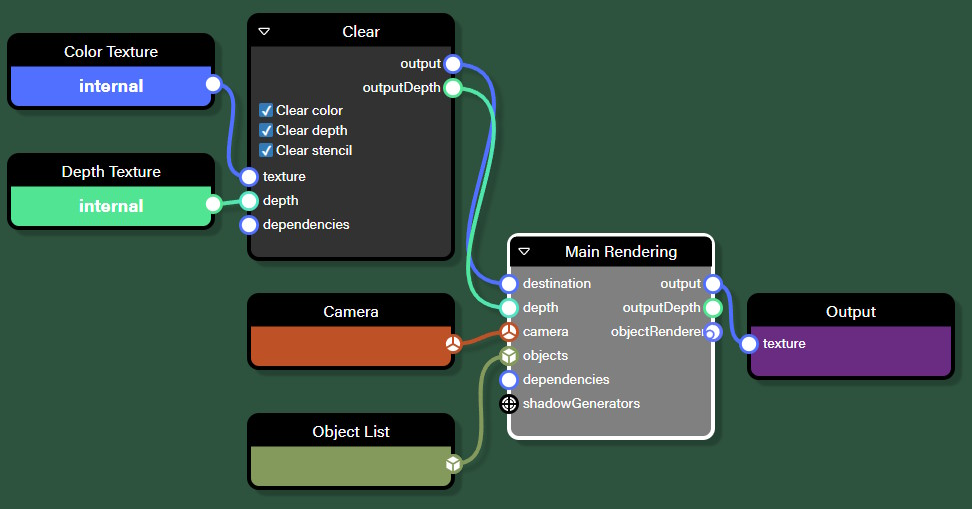
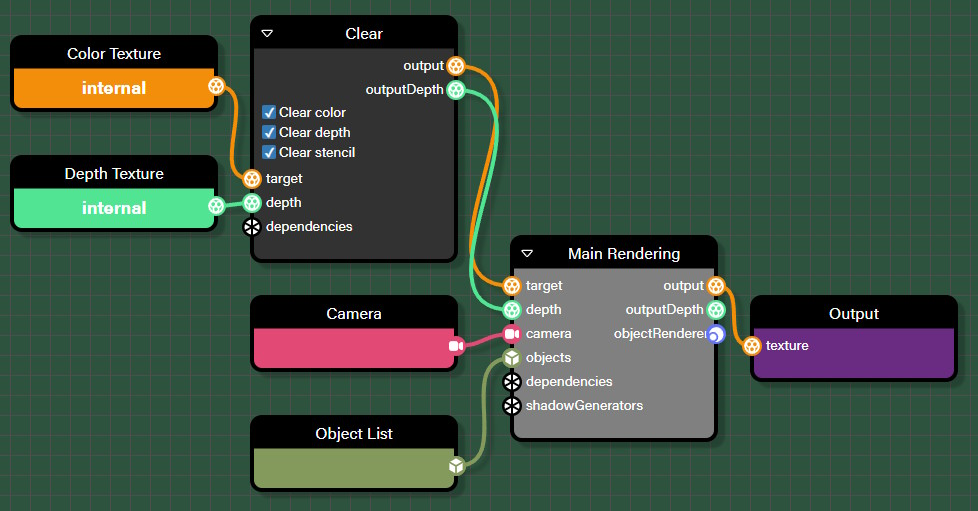
More doc

diff --git a/content/features/featuresDeepDive/frameGraph/frameGraphBlocks/frameGraphBlocksGeneralNotes.md b/content/features/featuresDeepDive/frameGraph/frameGraphBlocks/frameGraphBlocksGeneralNotes.md
@@ -20,6 +20,28 @@ As the message indicates, the two textures must use the same number of samples. 
 
 You will probably encounter these transient errors several times during your work with NRGE, so don't be surprised. You should be able to correct them easily by updating the correct parameter (the message should help you find the right parameter!).
 
+### Optional inputs
+
+Some block inputs are optional: you can easily spot them because they appear in black.
+
+![SSR](/img/frameGraph/ssr.jpg)
+
+In the `SSR` block, **target**, **geomBackDepth** and **dependencies** are optional.
+
+It is important not to connect anything to these inputs if it is not necessary, because in some cases you could suffer a performance penalty by doing so! See [SSR (Screen Space Reflection)](/features/featuresDeepDive/frameGraph/frameGraphBlocks/frameGraphBlocksDescription#ssr-(screen-space-reflection)) for more explanations on the `SSR` block.
+
+### Inputs allowing several types of connection
+
+The "wheel" icon that you may see for some input connection points means that the input accepts several types of connection, but you cannot know what these types are by simply looking at the name of the input. For example, the `SSR` block needs a geometry depth texture as input:
+
+![SSR](/img/frameGraph/ssr.jpg)
+
+If you click on the connection point itself (the black wheel icon), you can see in the right-hand pane the main type of connection, as well as the other accepted types:
+
+![SSR geomDepth accepted types](/img/frameGraph/ssr_geomdepth.jpg)
+
+The main type is a texture that stores view depth data, but the connection point also accepts a texture with screen depth data.
+
 ### The **target** inputs
 
 You will see that a number of blocks have an input called **target**, which may seem strange at first glance for an input connection...
@@ -72,18 +94,6 @@ Most of the time, these textures (except for the general purpose texture) will b
 ![Geometry Renderer block](/img/frameGraph/block_geometry_renderer.jpg)
 
 See the [GeometryRenderer block](#geometryrenderer) section for more information.
-
-### Inputs allowing several types of connection
-
-Sometimes, an input of a block allows several types of connections, but you cannot know what these types are by simply looking at the name of the connection. For example, the `SSR` block needs a geometry depth texture as input:
-
-![SSR](/img/frameGraph/ssr.jpg)
-
-If you click on the connection point itself (the green circle), you can see in the right-hand pane the main type of connection, as well as the other accepted types:
-
-![SSR geomDepth accepted types](/img/frameGraph/ssr_geomdepth.jpg)
-
-The main type is a texture that stores view depth data, but the connection point also accepts a texture with screen depth data.
 
 ### Description of block parameters
 

diff --git a/content/features/featuresDeepDive/frameGraph/frameGraphBasicConcepts.md b/content/features/featuresDeepDive/frameGraph/frameGraphBasicConcepts.md
@@ -29,7 +29,7 @@ To clarify the ideas, here is a simple graph:
 
 ![Basic graph](/img/frameGraph/basic_graph.jpg)
 
-The “Color Texture”, “Depth Texture”, “Camera” and “Object List” nodes are resources (respectively, of the texture, depth texture, camera and object list type). “Clear” and “Main Rendering” are two tasks, the first clears a texture/depth texture and the second renders objects in a texture. “Output” is the output buffer (think of it as the screen output).
+The “Color Texture”, “Depth Texture”, “Camera” and “Object List” nodes are input resources (respectively, of the texture, depth texture, camera and object list type). “Clear” and “Main Rendering” are two tasks, the first clears a texture/depth texture and the second renders objects in a texture. “Output” is the output buffer (think of it as the screen output).
 
 ### Benefits
 
@@ -57,7 +57,7 @@ With a frame graph, nothing is defined in advance; you simply create tasks and t
 
 Automatic texture management optimizes texture allocation and can lead to substantial GPU memory savings, depending on your graph:
 
-![Basic graph](/img/frameGraph/gpu_memory_saving.jpg)
+![Example of GPU memory saving](/img/frameGraph/gpu_memory_saving.jpg) <span url="https://nrge.babylonjs.com/#DDFRYD#5"/>
 
 In this simple graph, reusing textures saves 25% of the GPU's memory, but we have already seen savings of 40% or more in other graphs.
 
